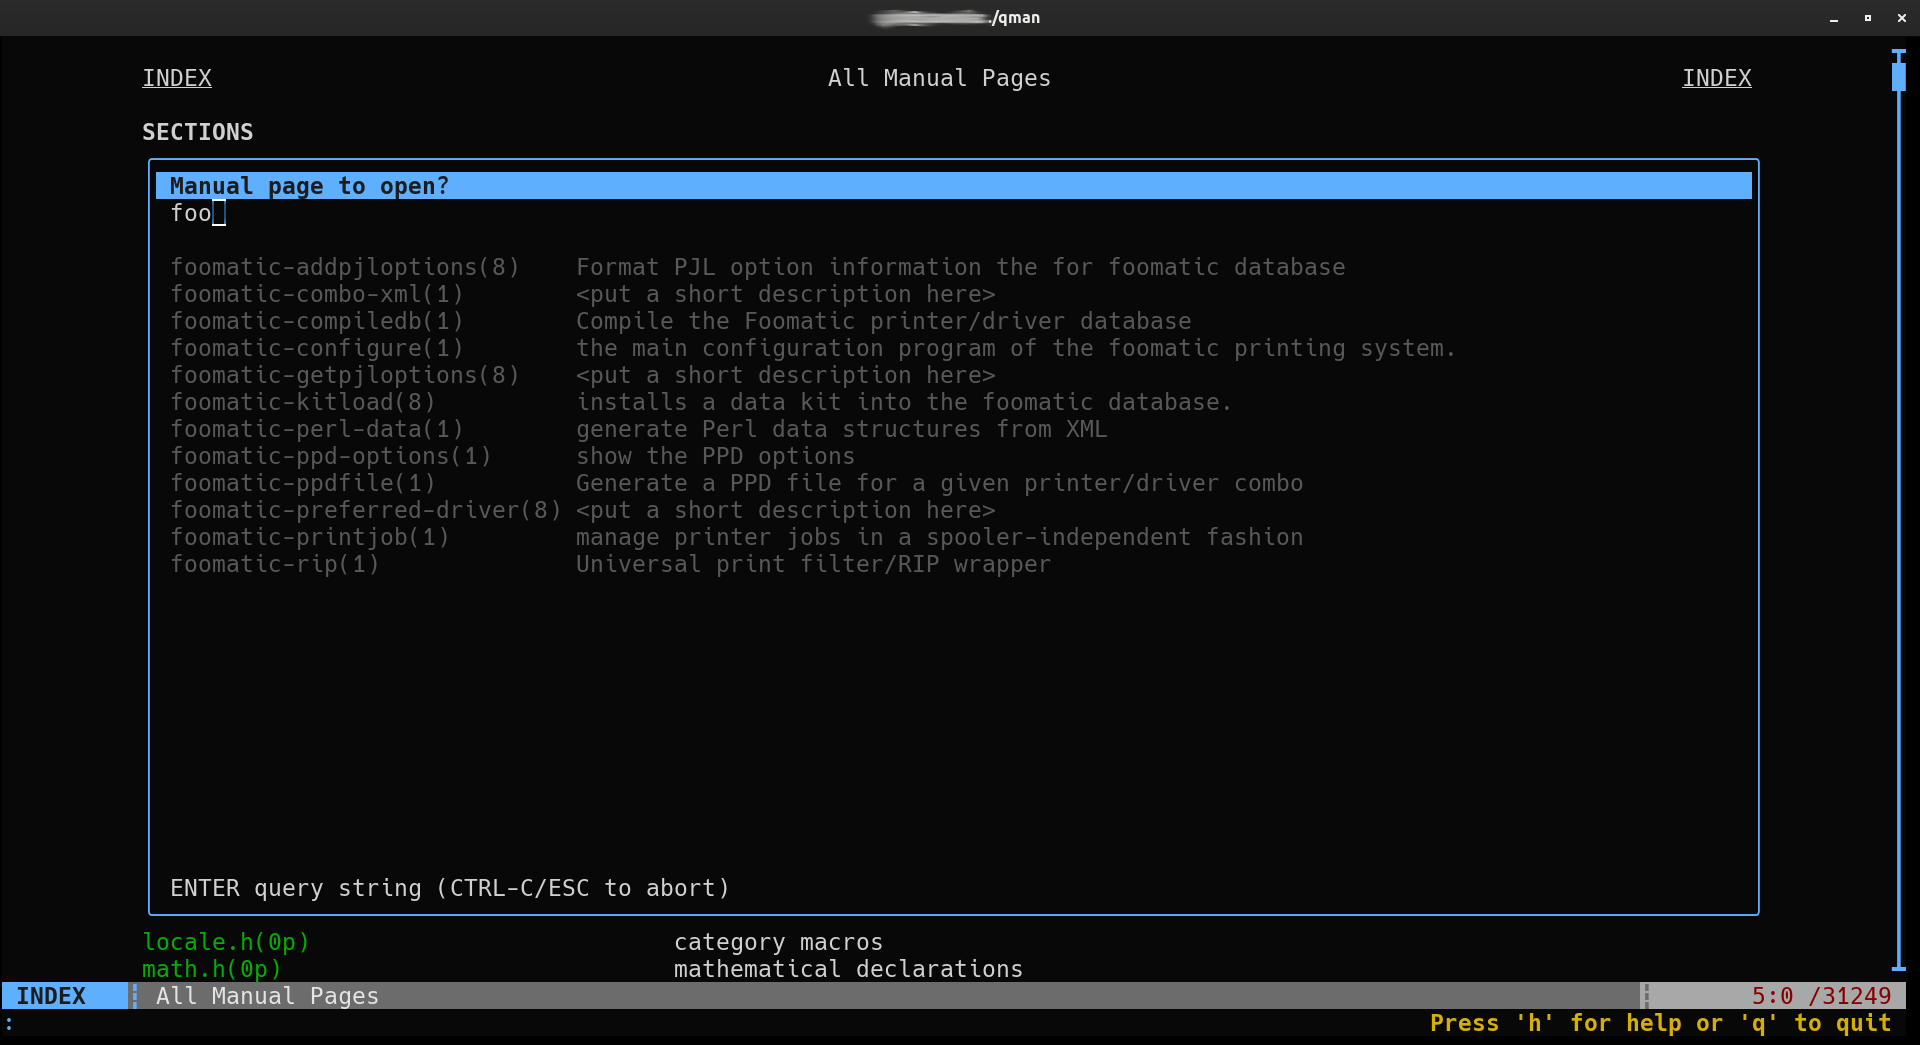
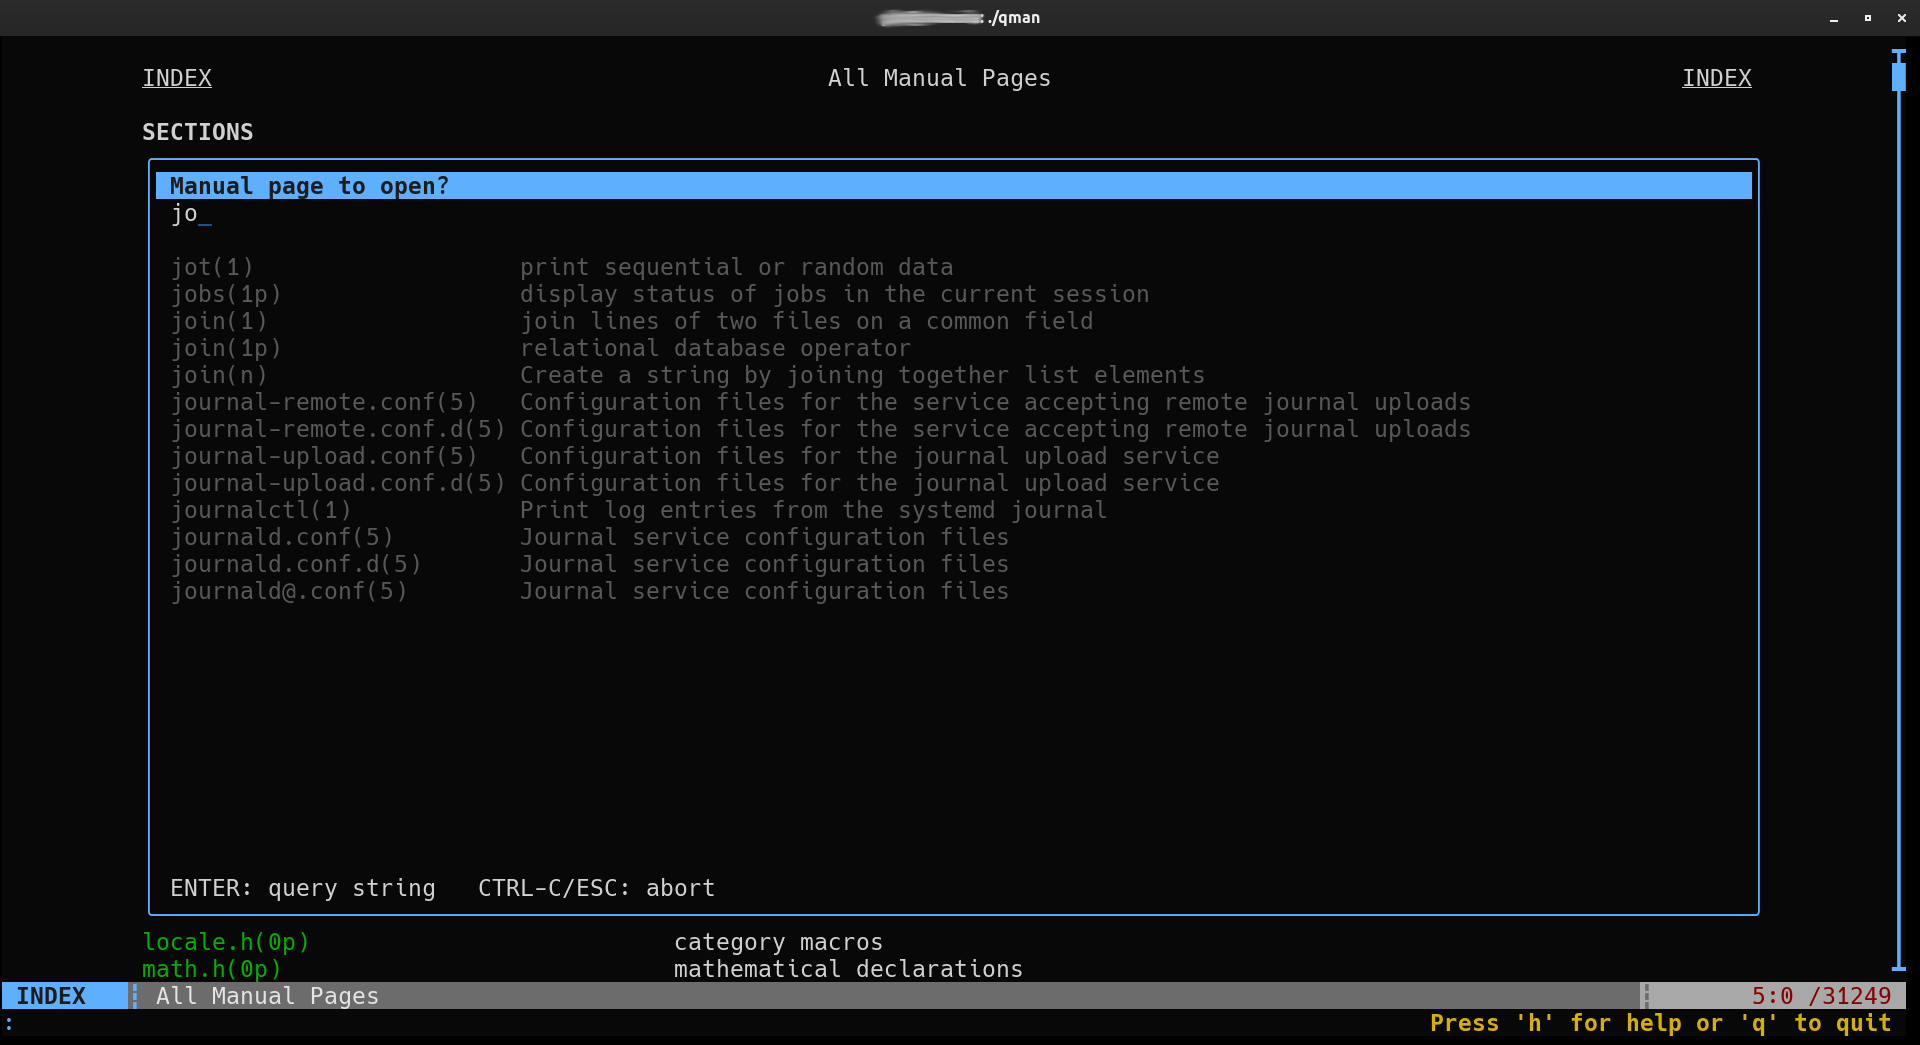
Improved a couple of help messages Screenshot for incremental search

diff --git a/src/tui.c b/src/tui.c
@@ -1016,7 +1016,7 @@ bool tui_sp_open(request_type_t rt) {
   wchar_t inpt[BS_SHORT - 2] = L""; // string typed by user
   wchar_t trgt[BS_SHORT]; // final string that specifies the page to be opened
   wchar_t help[BS_SHORT]; // help message
-  swprintf(help, BS_SHORT, L"%ls query string (%ls/%ls to abort)",
+  swprintf(help, BS_SHORT, L"%ls: query string   %ls/%ls: abort",
            ch2name(KEY_ENTER), ch2name(KEY_BREAK), ch2name('\e'));
   int got_inpt; // current return value of get_str_next()
 
@@ -1131,7 +1131,7 @@ bool tui_fwrd() {
 bool tui_search(bool back) {
   wchar_t *prompt = back ? L"?" : L"/"; // search prompt
   wchar_t help[BS_SHORT];               // help message
-  swprintf(help, BS_SHORT, L"%ls search string (%ls/%ls to abort)",
+  swprintf(help, BS_SHORT, L"Press %ls to search or %ls/%ls to abort",
            ch2name(KEY_ENTER), ch2name(KEY_BREAK), ch2name('\e'));
   wchar_t inpt[BS_SHORT - 2]; // search string
   wchar_t pout[BS_SHORT];     // search prompt and string printout

diff --git a/README.md b/README.md
@@ -12,6 +12,9 @@ Opening a manual page:
 Viewing a manual page:
 ![Viewing a Manual Page](/screenshots/qman_man.png)
 
+Searching incrementally:
+![Searching incrementally](/screenshots/qman_search.png)
+
 Performing apropos:
 ![Performing Apropos](/screenshots/qman_apropos.png)
 
